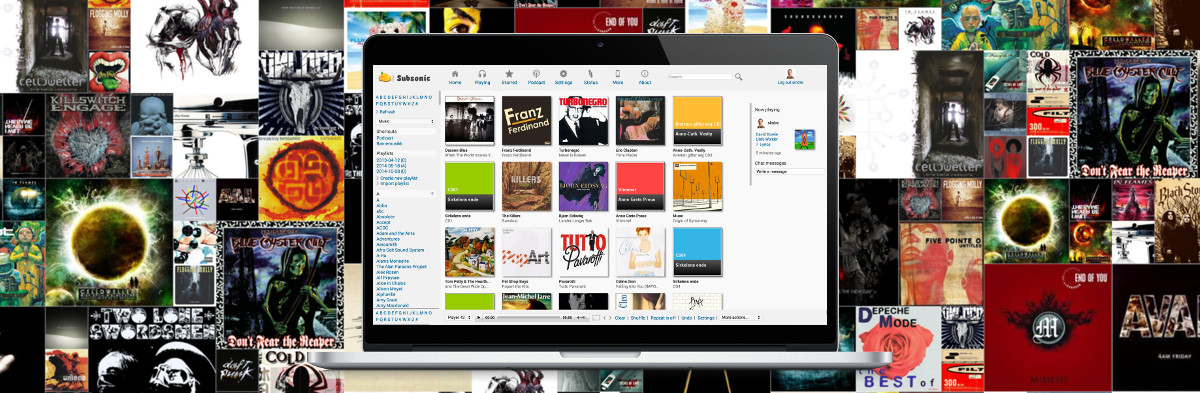
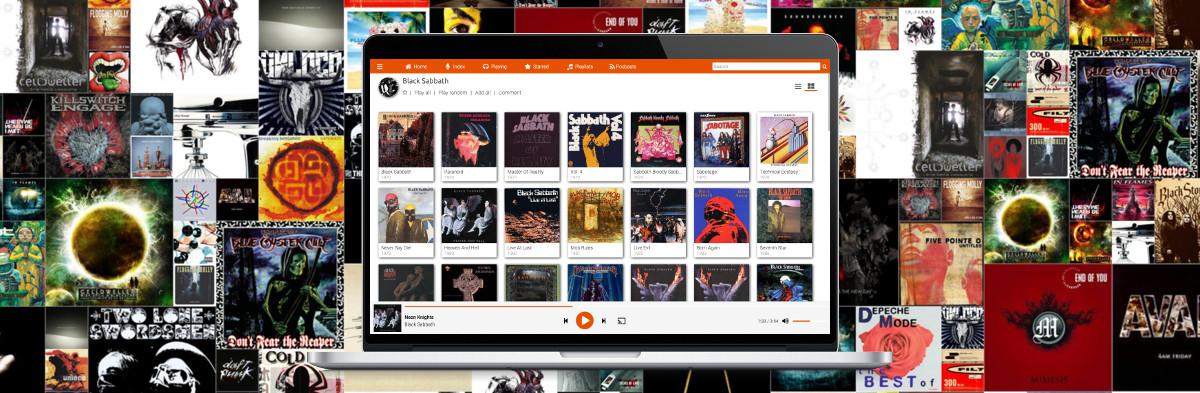
Site: Updated screenshots
git-svn-id: https://svn.code.sf.net/p/subsonic/code/trunk@4678 104adb81-38d2-4886-885e-82898e39ce25

Changed region(s): [[0.3083, 0.1527, 0.7092, 0.855]]

diff --git a/subsonic-site/src/main/webapp/css/style.css b/subsonic-site/src/main/webapp/css/style.css
@@ -1426,3 +1426,9 @@
 		#cta .formerize-placeholder {
 			color: rgba(255, 255, 255, 0.75) !important;
 		}
+
+.dropshadow {
+    border-radius: 0 !important;
+    box-shadow: 2px 2px 6px #333333;
+}
+
